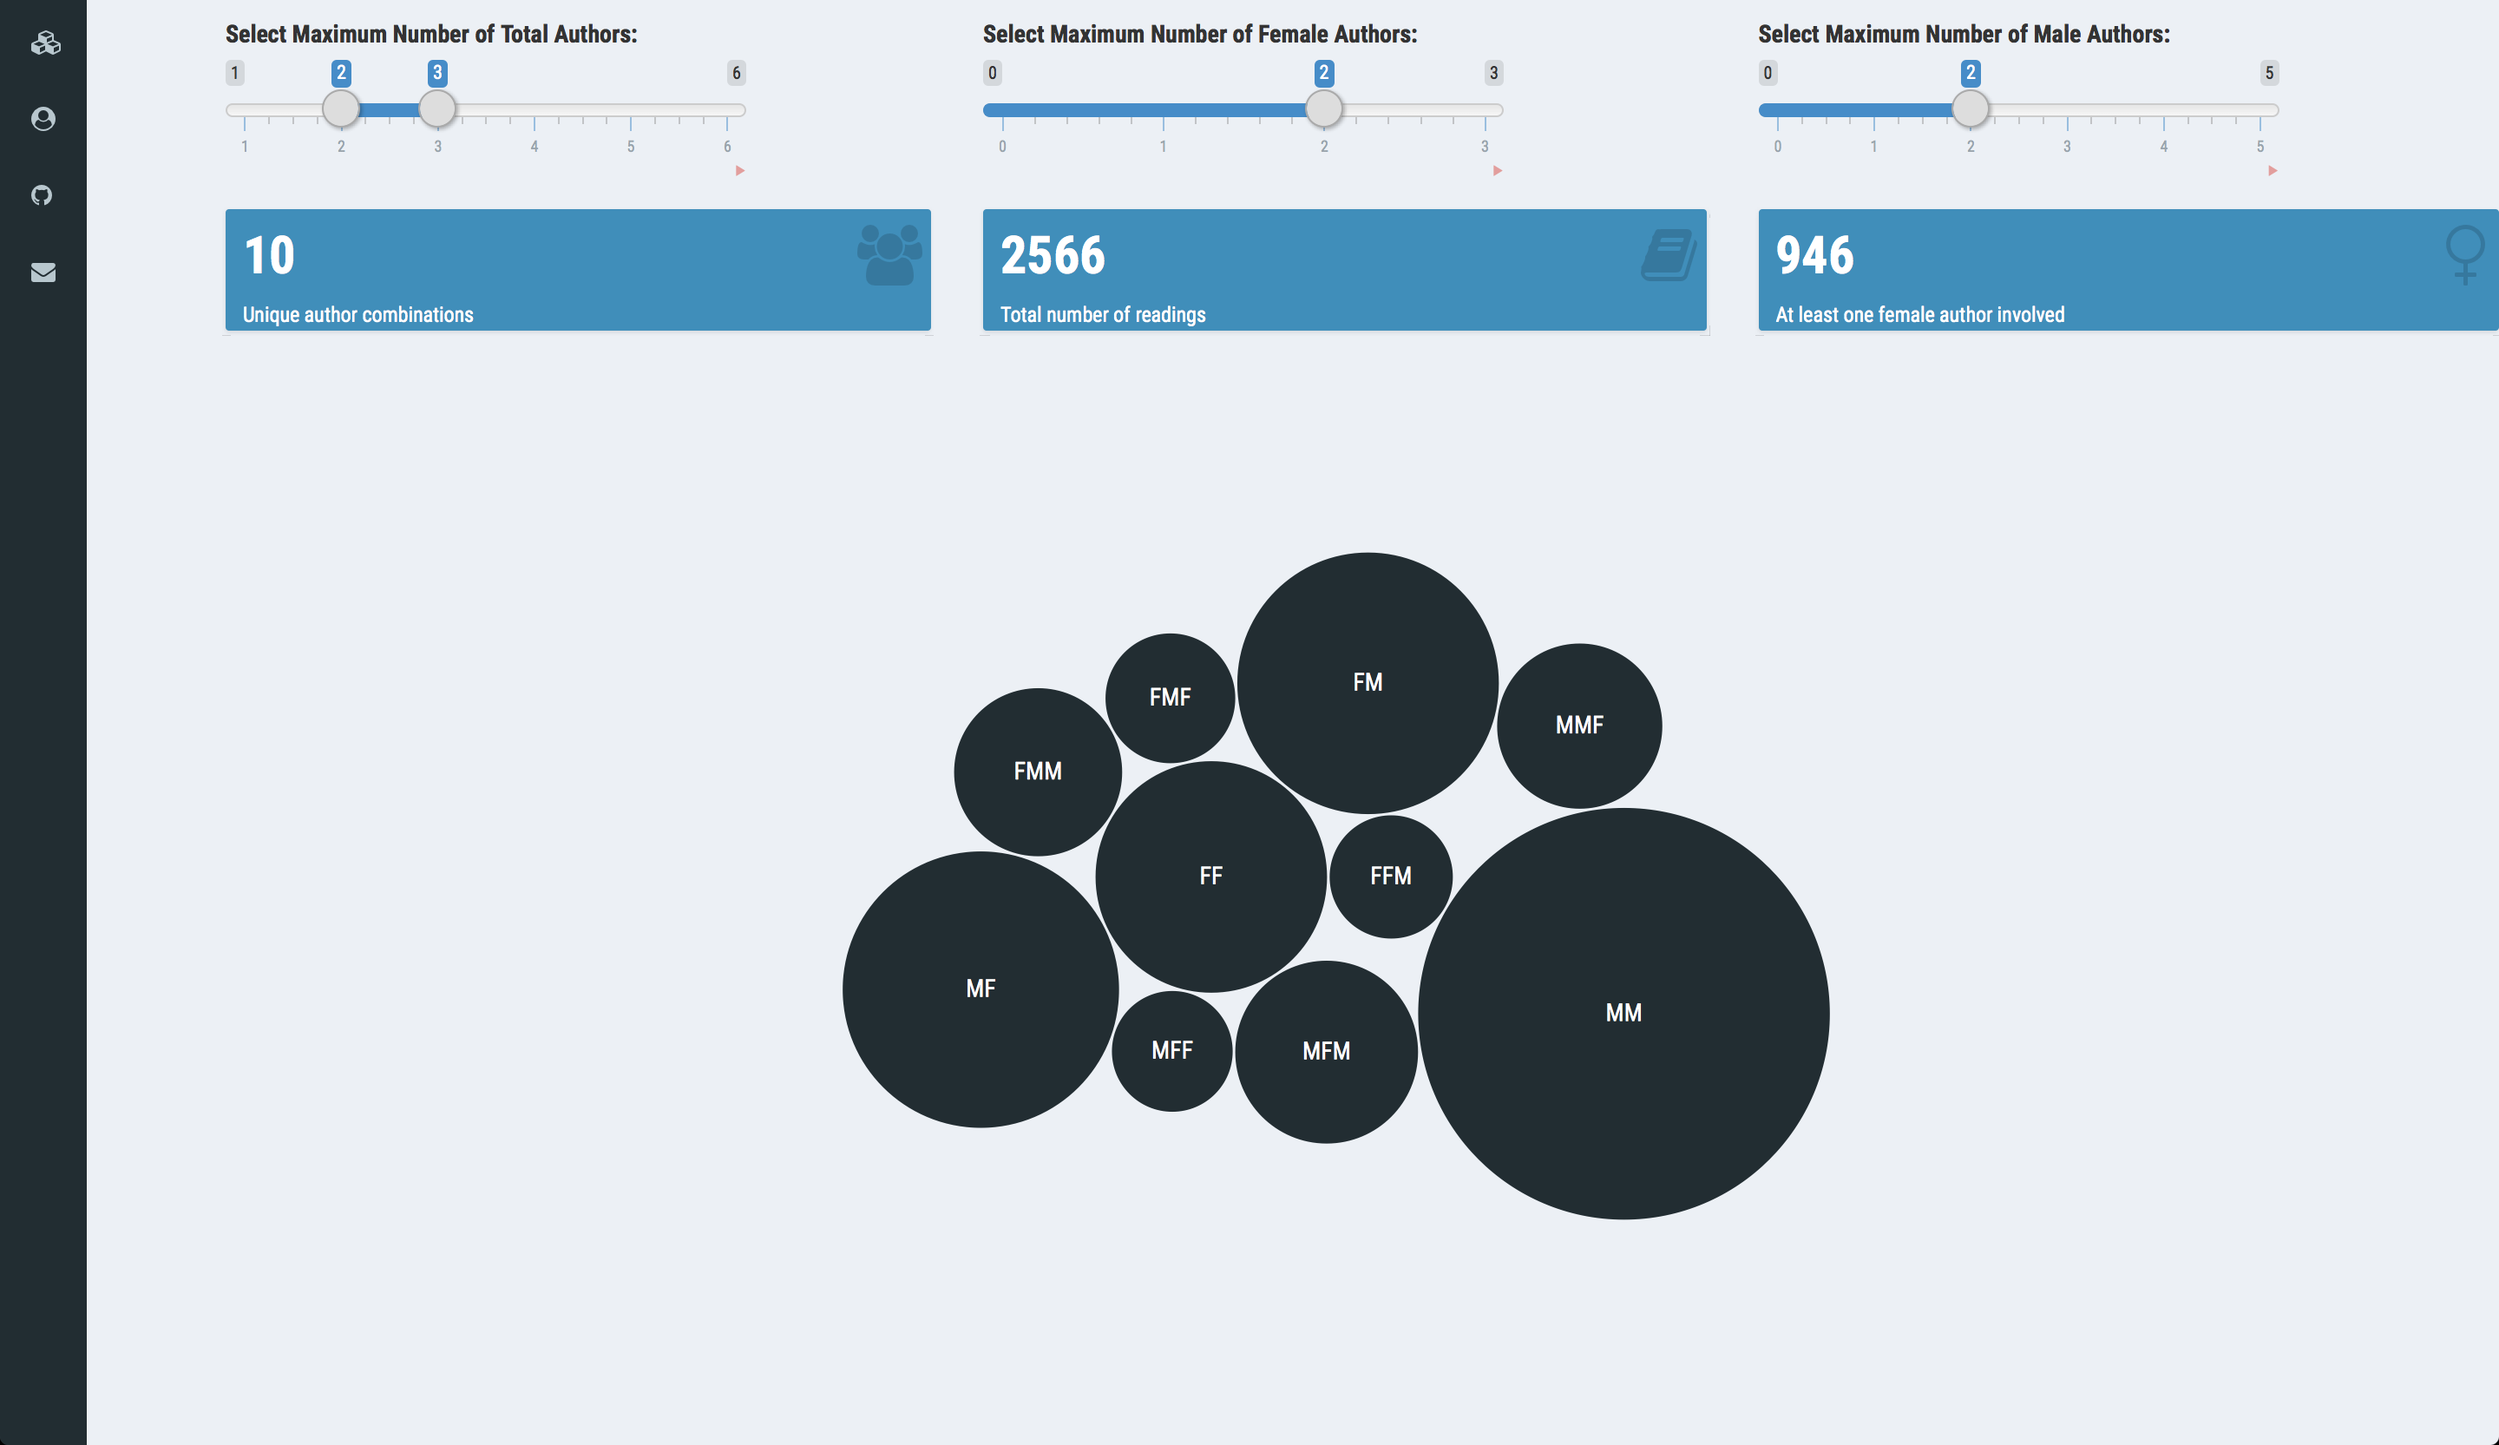
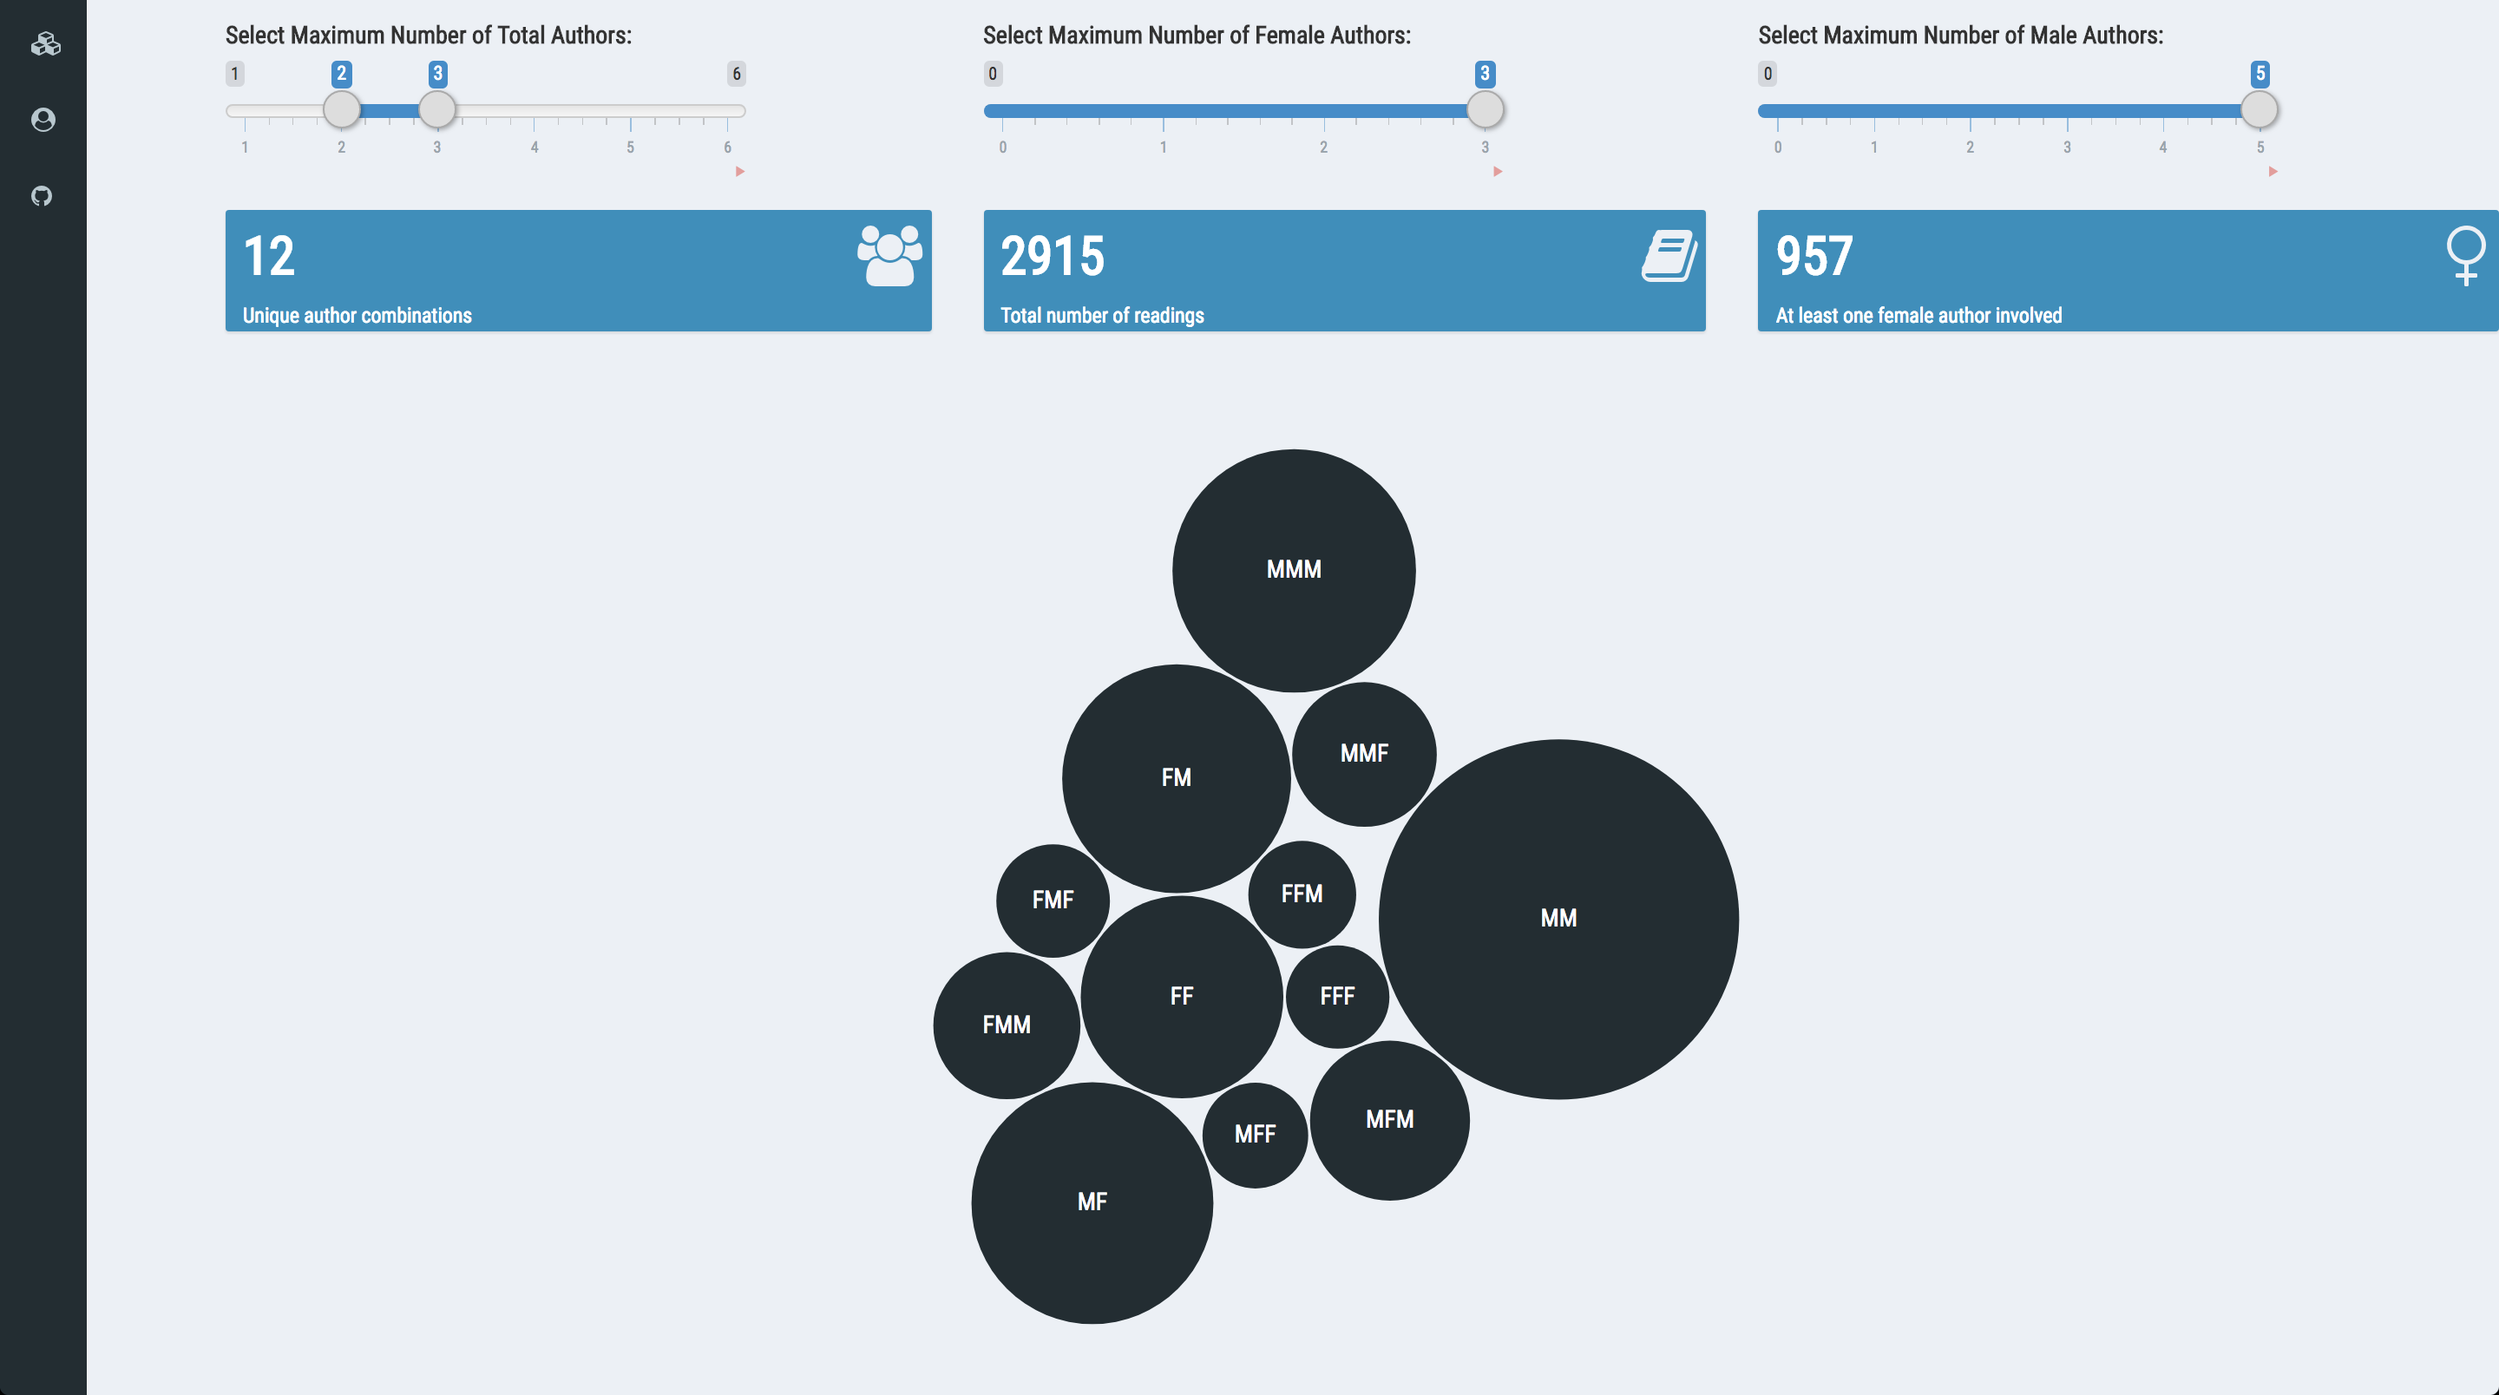
img bg

diff --git a/gender/www/styles.css b/gender/www/styles.css
@@ -36,6 +36,10 @@ i {
   font-size: 50%;
 }
 
+.small-box .icon-large {
+    color: rgb(236, 240, 245) !important;
+}
+
 .dygraph-legend {
   font-size: 12px !important;
   font-weight: 300 !important;
